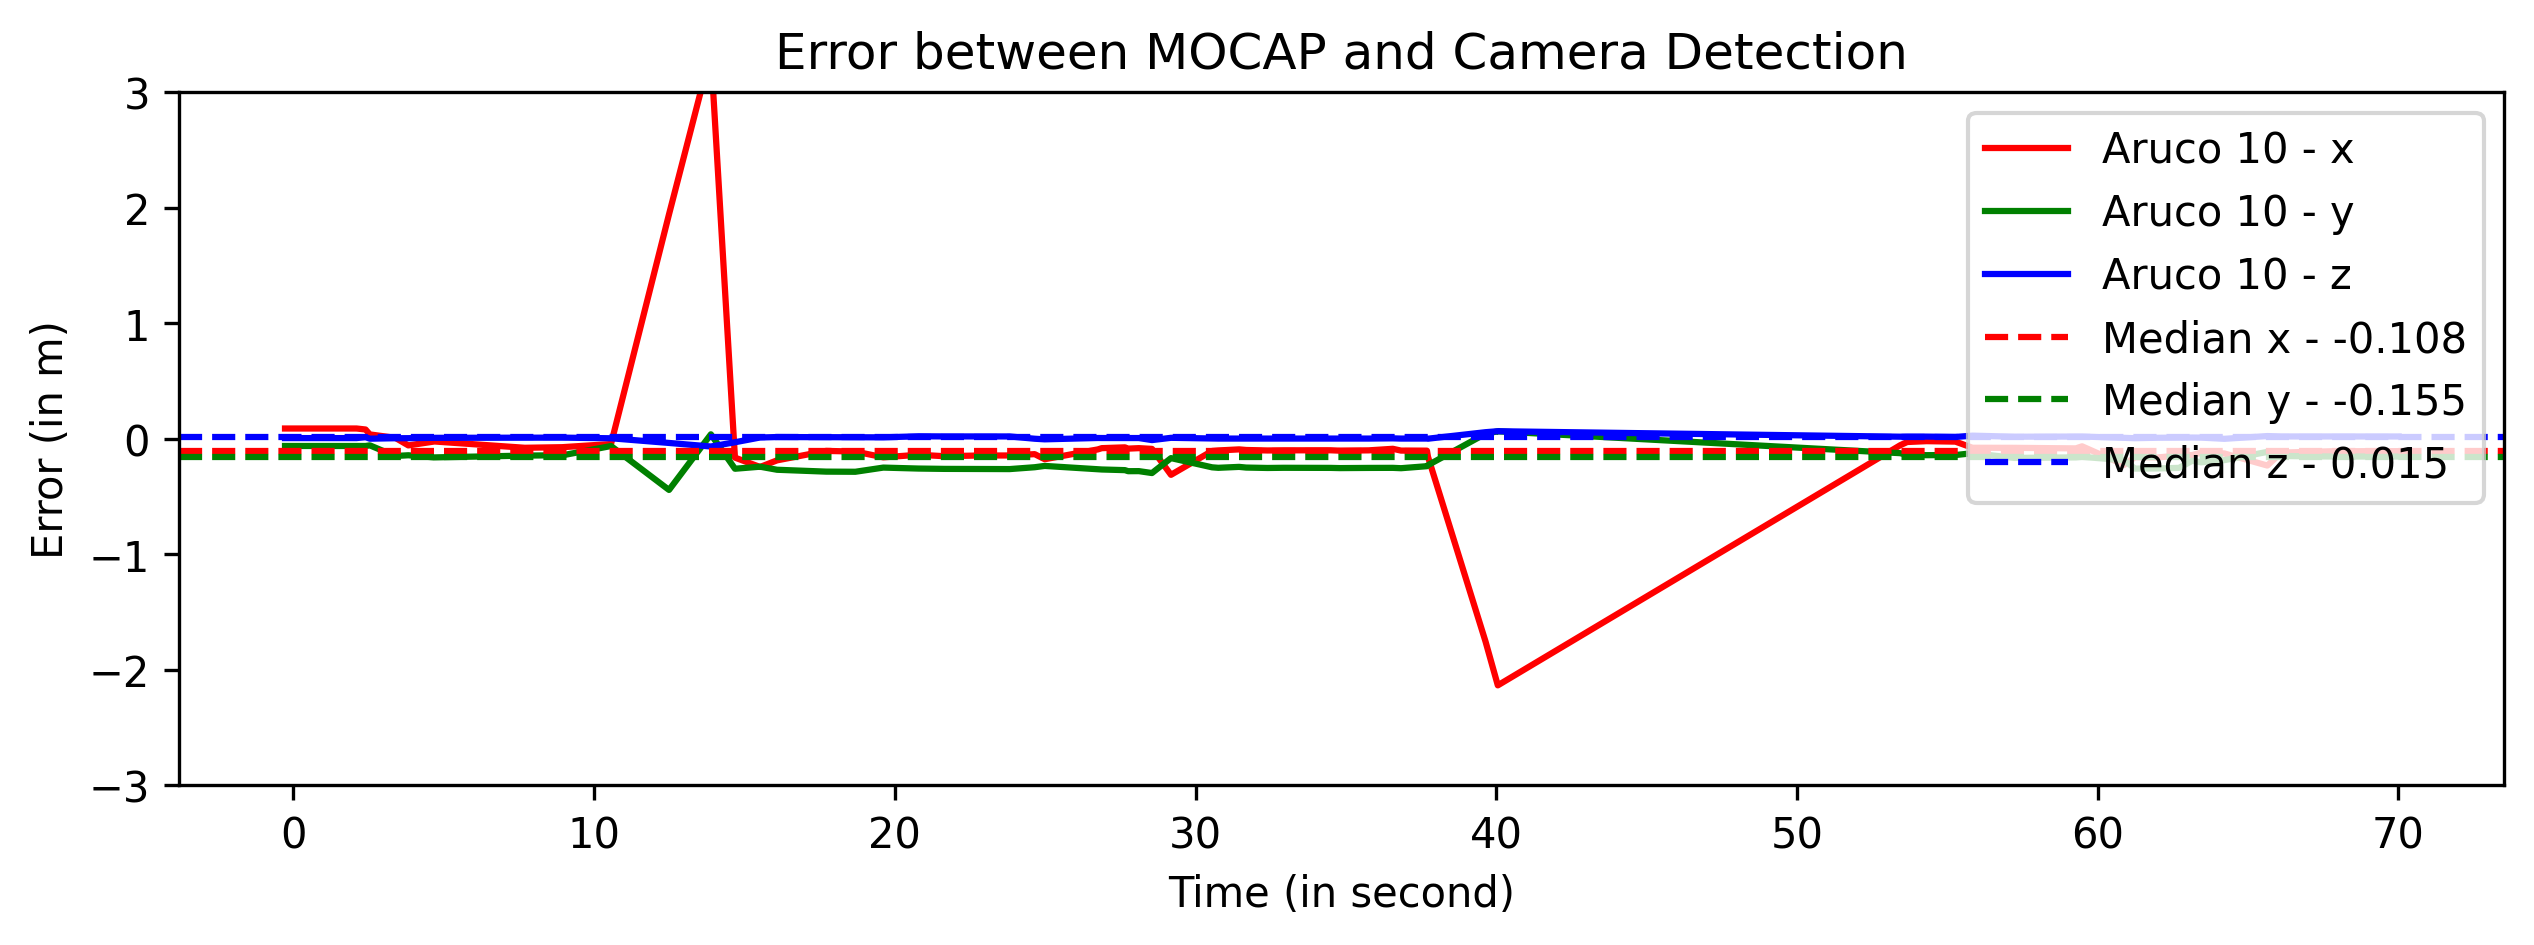
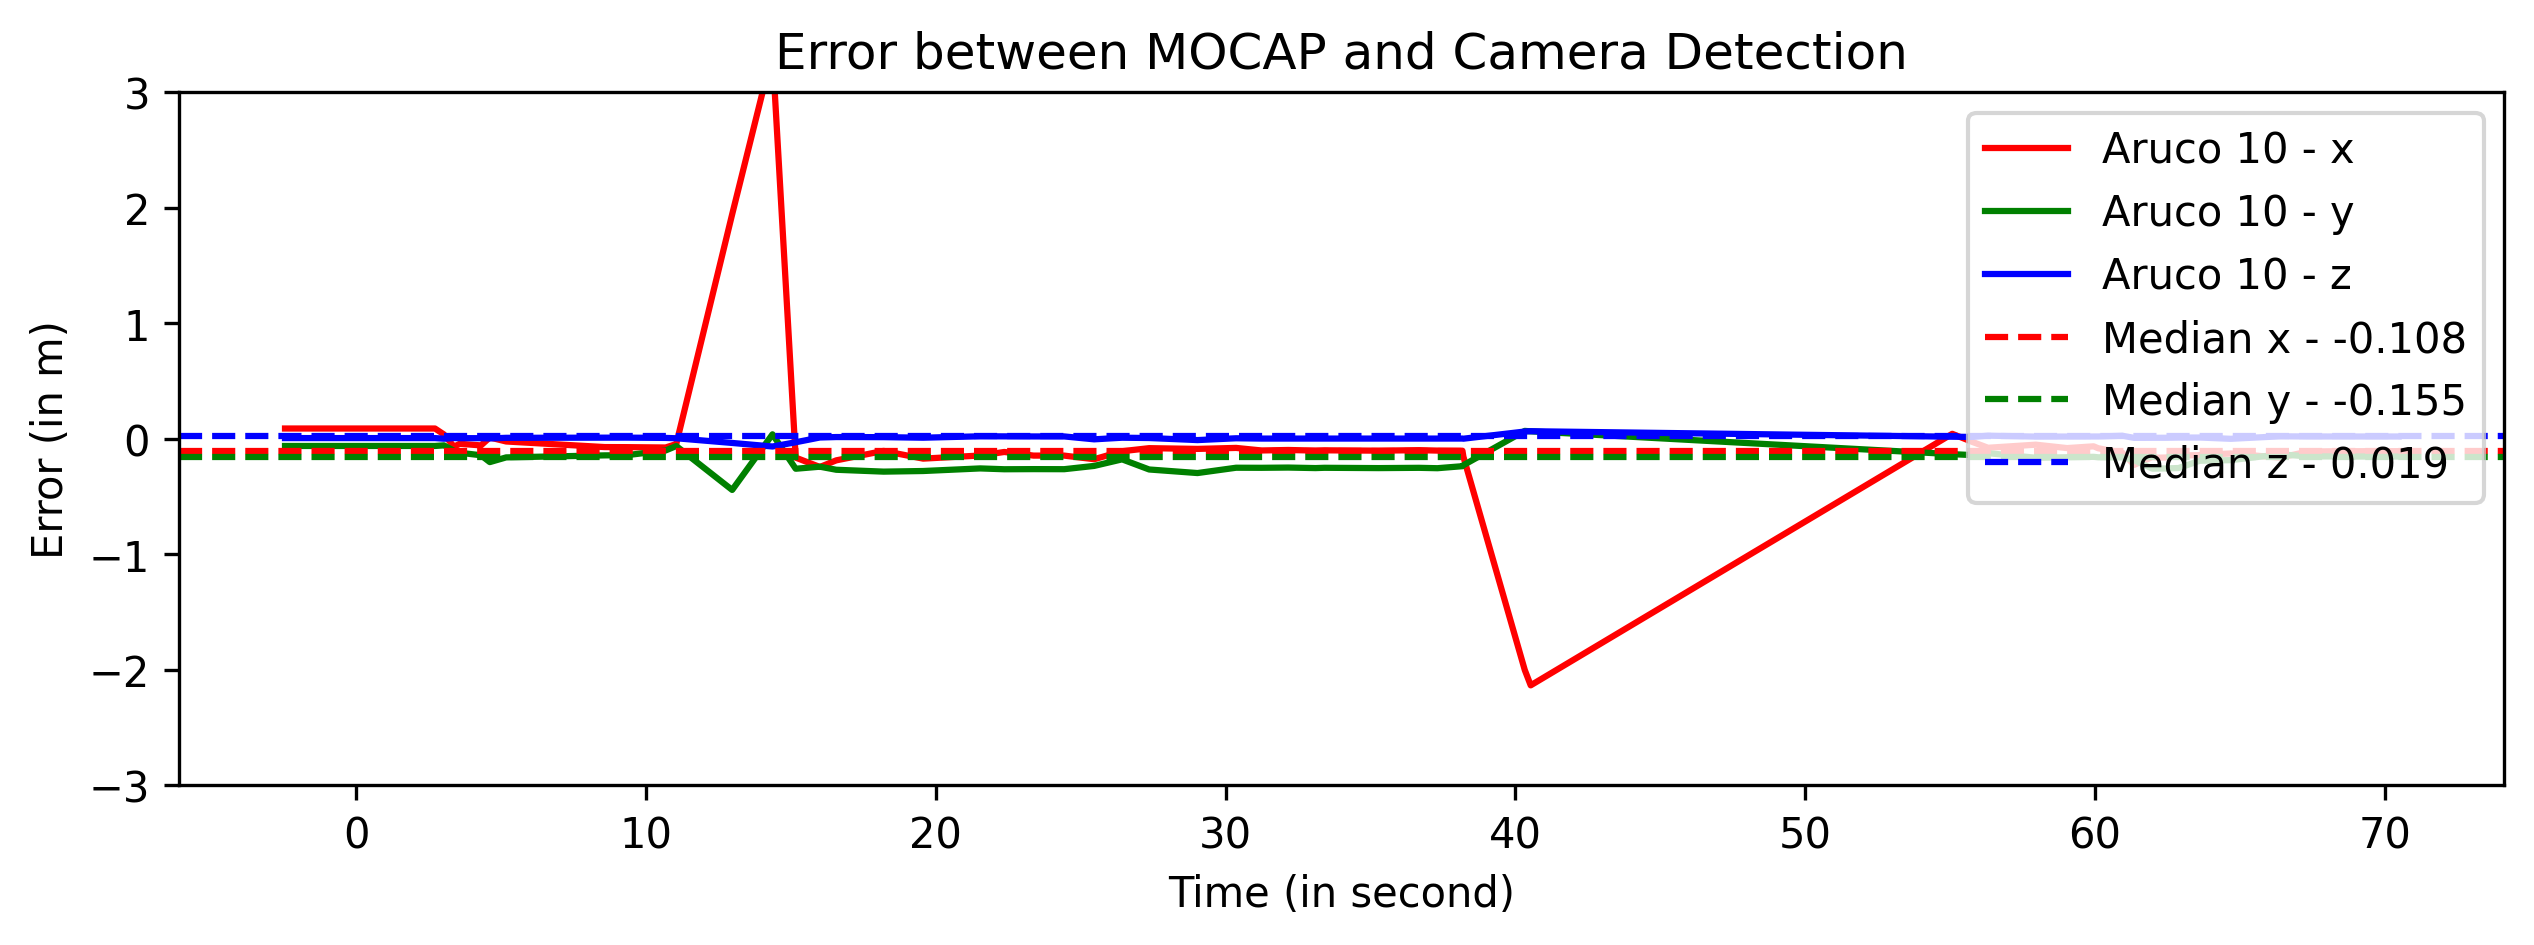
Updated path and rosbag for analysis.py

diff --git a/src/svea_sensors/scripts/Analysis.py b/src/svea_sensors/scripts/Analysis.py
@@ -13,7 +13,7 @@ import os
 
 from nav_msgs.msg import Odometry
 
-BAGNUMBER = 1
+BAGNUMBER = 7
 
 BagPaths = {
     1: '/home/annika/ITRL/kth_thesis/rosbag/2024-01-22/working_epnp_with_EKF.bag',
@@ -21,7 +21,8 @@ BagPaths = {
     3: '/home/annika/ITRL/kth_thesis/rosbag/2024-01-22/EKF_epnp_4landmarks.bag',
     4: '/home/annika/ITRL/kth_thesis/rosbag/2024-01-25/epnp_alone_4_landmarks.bag',
     5: '/home/annika/ITRL/kth_thesis/rosbag/2024-01-25/iterative_pnp_alone.bag',
-    6: '/home/annika/ITRL/kth_thesis/rosbag/2024-01-25/iterative_pnp_with_ekf.bag'
+    6: '/home/annika/ITRL/kth_thesis/rosbag/2024-01-25/iterative_pnp_with_ekf.bag',
+    7: '/home/annika/ITRL/kth_thesis/rosbag/2024-01-25/p3p_alone.bag'
     }
 
 Bag = BagPaths[BAGNUMBER]
@@ -29,6 +30,8 @@ if BAGNUMBER == 5 or BAGNUMBER == 6:
     ARUCOLIST = [0, 10, 11, 12, 13, 14]
 elif BAGNUMBER == 4:
     ARUCOLIST = [10, 11, 12, 14]
+elif BAGNUMBER == 7:
+    ARUCOLIST = [11, 12, 14]
 else:
     ARUCOLIST = [10, 11, 12, 13, 14]
 
@@ -51,6 +54,12 @@ class Analysis:
         elif BAGNUMBER == 4:
             self.Aruco = {
                 10 : [],
+                11 : [],
+                12 : [],
+                14 : []
+            }
+        elif BAGNUMBER == 7:
+            self.Aruco = {
                 11 : [],
                 12 : [],
                 14 : []
